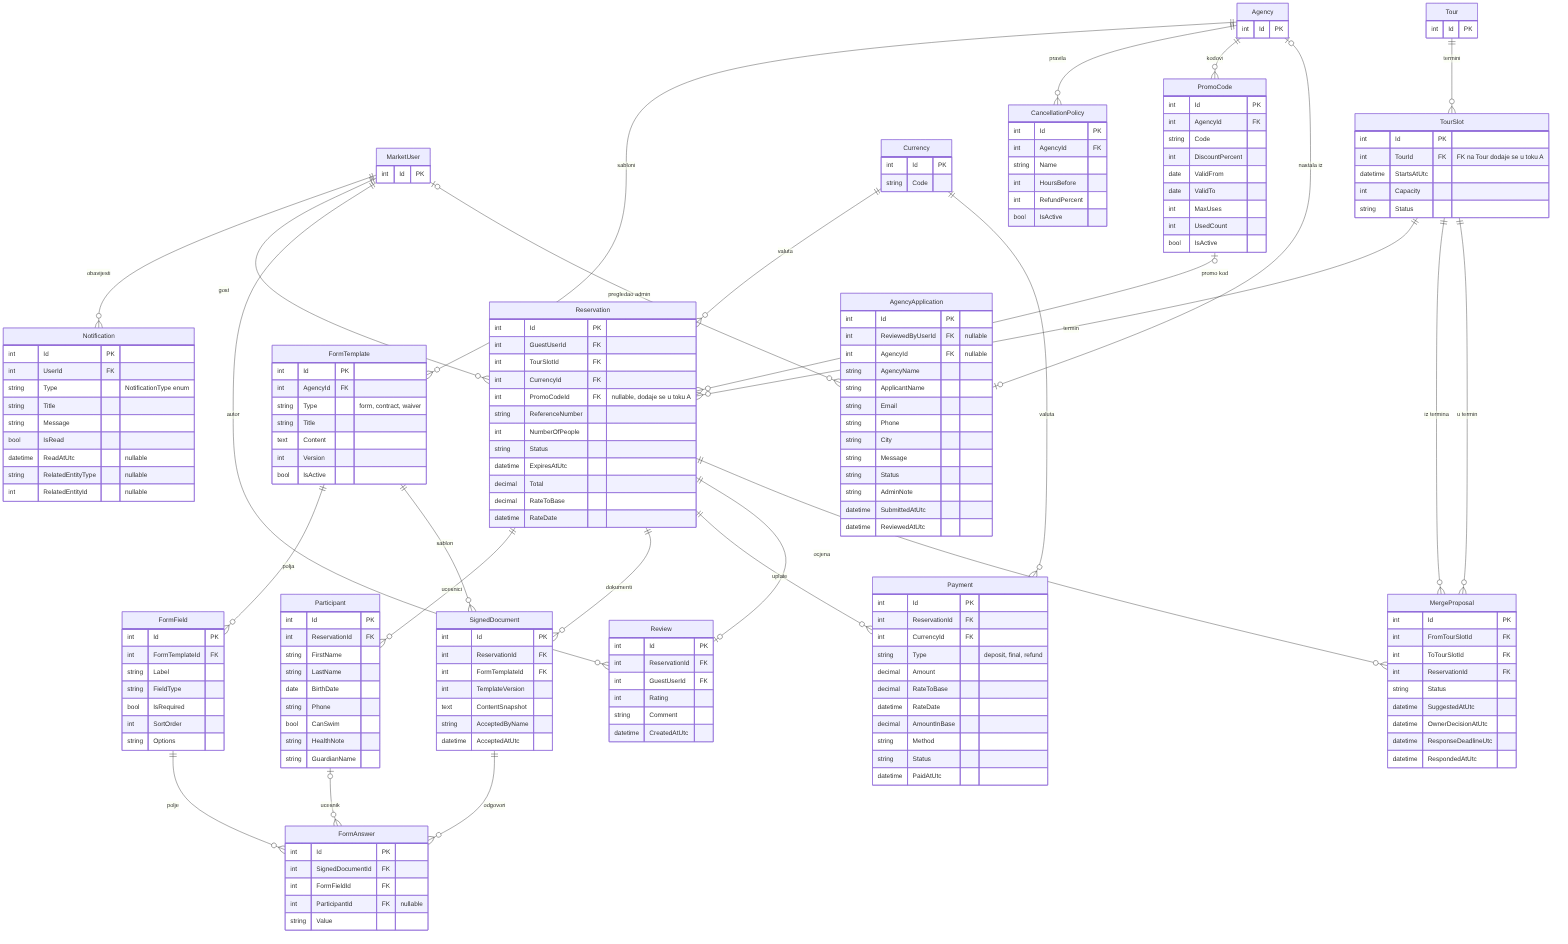
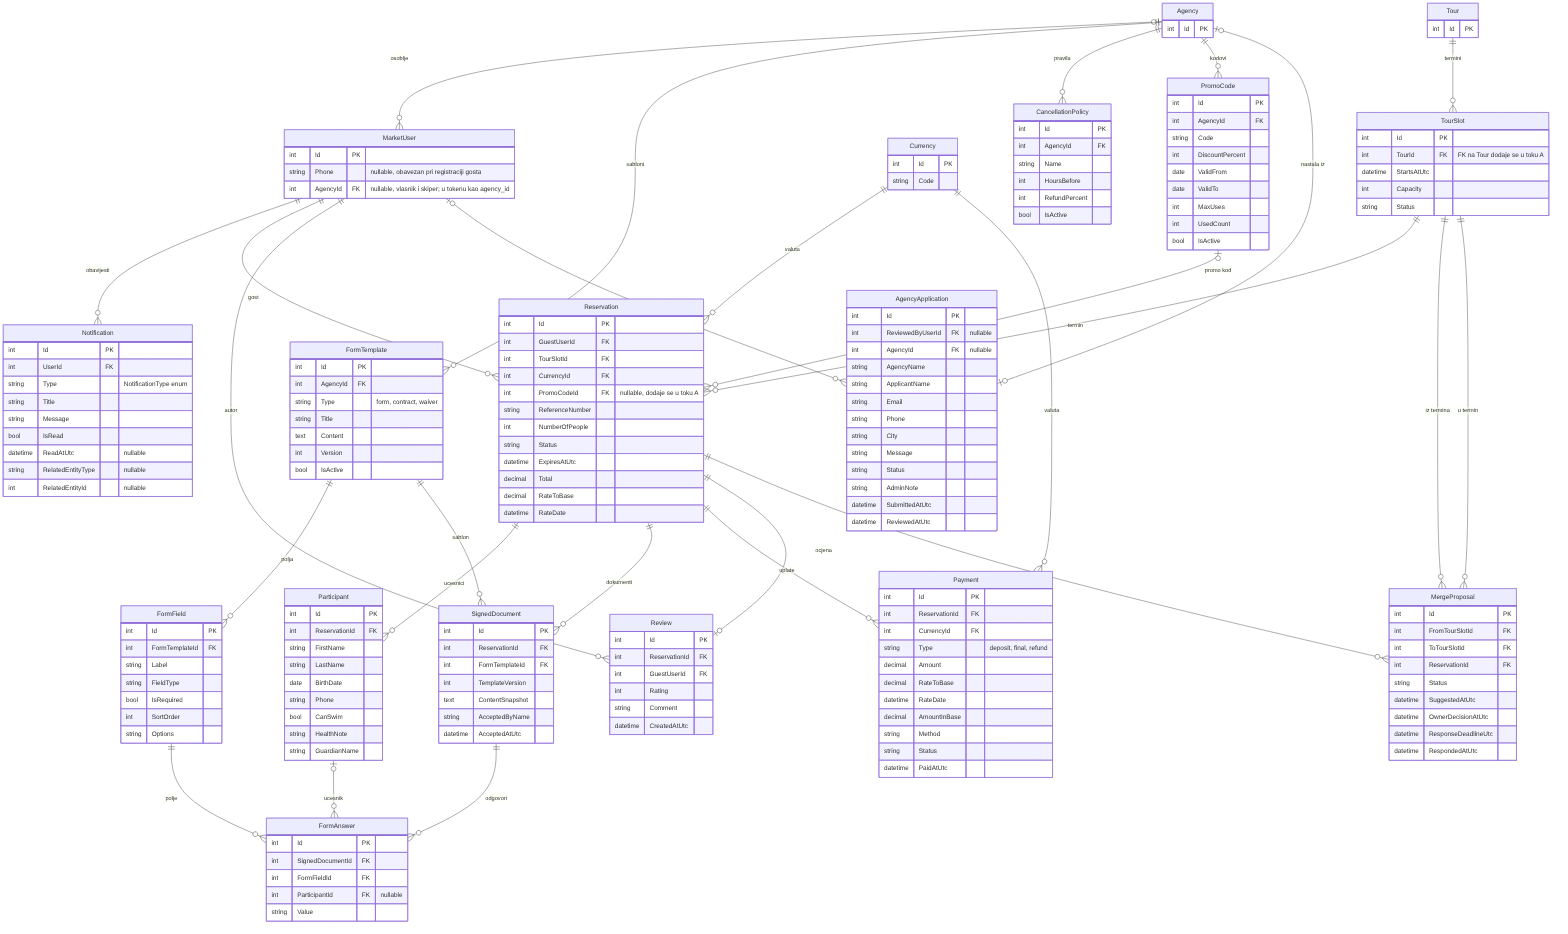
Testovi i Dokumentacija: telefon, AgencyID i filter po agenciji, dijagrami entiteta za T2 (#2)

diff --git a/Market.Backend/Market.Tests/AuthTests/IntegrationTests/AccountIntegrationTests.cs b/Market.Backend/Market.Tests/AuthTests/IntegrationTests/AccountIntegrationTests.cs
@@ -48,6 +48,7 @@ public class AccountIntegrationTests
             Firstname = "Lejla",
             Lastname = "Kovač",
             Email = email,
+            Phone = "+387 61 123-456",
             Password,
             Address = "Titova 10",
             City = "Sarajevo"
@@ -79,6 +80,8 @@ public class AccountIntegrationTests
         Assert.Equal(email, me!.Email);
         Assert.Equal("Titova 10", me.Address);
         Assert.Equal("Sarajevo", me.City);
+        Assert.Equal("+38761123456", me.Phone); // spaces and dashes are removed before saving
+        Assert.Null(me.AgencyId);               // a guest belongs to no agency
         Assert.False(me.IsAdmin || me.IsManager || me.IsEmployee); // a new account is a customer
     }
 
@@ -91,6 +94,7 @@ public class AccountIntegrationTests
             Firstname = "Drugi",
             Lastname = "Admin",
             Email = CustomWebApplicationFactory<Program>.AdminEmail.ToUpperInvariant(),
+            Phone = "+38761123456",
             Password
         };
 
@@ -116,13 +120,51 @@ public class AccountIntegrationTests
             Firstname = "Slaba",
             Lastname = "Lozinka",
             Email = NewEmail(),
+            Phone = "+38761123456",
             Password = password
         });
 
         // Assert
         Assert.Equal("password", Assert.Single(await ReadFieldErrorsAsync(response)).Field);
     }
+    [Theory]
+    [InlineData("")]                  // missing
+    [InlineData("123")]               // too short
+    [InlineData("abcdefgh")]          // letters
+    [InlineData("+3876112345678901")] // too long (16 digits)
+    public async Task Post_Register_InvalidPhone_ShouldReturnFieldErrorOnPhone(string phone)
+    {
+        // Act
+        var response = await CreateClient().PostAsJsonAsync("api/auth/register", new
+        {
+            Firstname = "Bez",
+            Lastname = "Telefona",
+            Email = NewEmail(),
+            Password,
+            Phone = phone
+        });
 
+        // Assert
+        Assert.Equal("phone", Assert.Single(await ReadFieldErrorsAsync(response)).Field);
+    }
+
+    [Fact]
+    public async Task Get_Me_SeededEmployee_HasAgencyAndPhone_AndAdminHasNoAgency()
+    {
+        // Act
+        var employeeClient = await _factory.GetAuthenticatedClientAsync(
+            CustomWebApplicationFactory<Program>.EmployeeEmail,
+            CustomWebApplicationFactory<Program>.EmployeePassword);
+        var employee = await employeeClient.GetFromJsonAsync<GetMeQueryDto>("api/auth/me");
+
+        var adminClient = await _factory.GetAuthenticatedClientAsync();
+        var admin = await adminClient.GetFromJsonAsync<GetMeQueryDto>("api/auth/me");
+
+        // Assert: the demo agency from the seeder belongs to the employee; the platform admin has none
+        Assert.NotNull(employee!.AgencyId);
+        Assert.False(string.IsNullOrEmpty(employee.Phone));
+        Assert.Null(admin!.AgencyId);
+    }
     [Fact]
     public async Task Post_ForgotPassword_UnknownEmail_Returns204AndSendsNoEmail()
     {

diff --git a/Market.Backend/Market.Tests/AuthTests/UnitTests/AgencyScopeUnitTests.cs b/Market.Backend/Market.Tests/AuthTests/UnitTests/AgencyScopeUnitTests.cs
@@ -1,0 +1,66 @@
+using Market.Application.Abstractions;
+using Market.Application.Common;
+using Market.Domain.Common;
+
+namespace Market.Tests.AuthTests.UnitTests;
+
+public class AgencyScopeUnitTests
+{
+    private sealed record Item(int Id, int AgencyId) : IAgencyOwned;
+
+    private sealed class User(bool isAdmin, bool isManager, bool isEmployee, int? agencyId) : IAppCurrentUser
+    {
+        public int? UserId => 1;
+        public string? Email => null;
+        public bool IsAuthenticated => true;
+        public bool IsAdmin => isAdmin;
+        public bool IsManager => isManager;
+        public bool IsEmployee => isEmployee;
+        public int? AgencyId => agencyId;
+    }
+
+    private static readonly IQueryable<Item> Items = new[]
+    {
+        new Item(1, AgencyId: 1),
+        new Item(2, AgencyId: 1),
+        new Item(3, AgencyId: 2)
+    }.AsQueryable();
+
+    [Theory]
+    [InlineData(true, false)]  // owner
+    [InlineData(false, true)]  // employee (skipper)
+    public void ScopedForRead_OwnerOrEmployee_SeesOnlyOwnAgency(bool isManager, bool isEmployee)
+    {
+        var user = new User(false, isManager, isEmployee, agencyId: 1);
+
+        var result = Items.ScopedForRead(user).Select(x => x.Id).ToList();
+
+        Assert.Equal([1, 2], result);
+    }
+
+    [Fact]
+    public void ScopedForRead_Admin_SeesAllAgencies()
+    {
+        var user = new User(true, false, false, agencyId: null);
+
+        Assert.Equal(3, Items.ScopedForRead(user).Count());
+    }
+
+    [Fact]
+    public void ScopedToOwnAgency_Admin_HasNoBypass()
+    {
+        var user = new User(true, false, false, agencyId: null);
+
+        Assert.Empty(Items.ScopedToOwnAgency(user));
+    }
+
+    [Fact]
+    public void ScopedForRead_GuestOrManagerWithoutAgency_SeesNothing()
+    {
+        var guest = new User(false, false, false, agencyId: null);
+        var managerWithoutAgency = new User(false, true, false, agencyId: null);
+
+        Assert.Empty(Items.ScopedForRead(guest));
+        Assert.Empty(Items.ScopedForRead(managerWithoutAgency));
+    }
+}

diff --git a/Market.Backend/Market.Tests/AuthTests/UnitTests/PhoneRulesUnitTests.cs b/Market.Backend/Market.Tests/AuthTests/UnitTests/PhoneRulesUnitTests.cs
@@ -1,0 +1,34 @@
+using Market.Application.Common;
+
+namespace Market.Tests.AuthTests.UnitTests;
+
+public class PhoneRulesUnitTests
+{
+    [Theory]
+    [InlineData("+38761123456")]
+    [InlineData("+387 61 123-456")]
+    [InlineData("061/123-456")]
+    [InlineData("(061) 123 456")]
+    public void IsValid_ValidNumber_ReturnsTrue(string phone)
+    {
+        Assert.True(PhoneRules.IsValid(phone));
+    }
+
+    [Theory]
+    [InlineData(null)]
+    [InlineData("")]
+    [InlineData("123")]
+    [InlineData("abcdefgh")]
+    [InlineData("38761+123456")]       // "+" only at the start
+    [InlineData("+3876112345678901")]  // 16 digits
+    public void IsValid_InvalidNumber_ReturnsFalse(string? phone)
+    {
+        Assert.False(PhoneRules.IsValid(phone));
+    }
+
+    [Fact]
+    public void Normalize_RemovesSpacesDashesAndBrackets()
+    {
+        Assert.Equal("+38761123456", PhoneRules.Normalize(" +387 (61) 123-456 "));
+    }
+}
